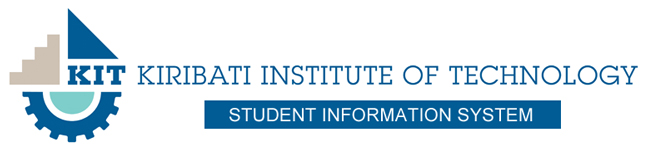
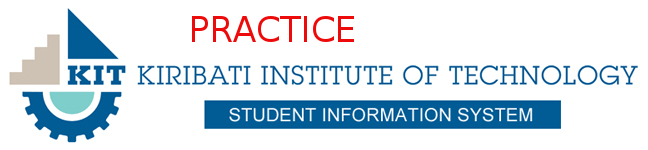
fixing the practice install

Changed region(s): [[0.2778, 0.1067, 0.5556, 0.2933], [0.5247, 0.16, 0.5556, 0.2133]]

diff --git a/tafe/templates/tafe/base_site.html b/tafe/templates/tafe/base_site.html
@@ -1,10 +1,10 @@
 {% extends "tafe/base.html" %}
 {% load admin_static %}{% load url from future %}
 
-{% block title %}{{ title }}KIT Student Management System{% endblock %}
+{% block title %}{{ title }}Practice KIT Student Management System{% endblock %}
 
 {% block branding %}{{ block.super }}
-<a href="/tafe/"><div id="site-name">KIT Student Management System</div>
+<a href="/tafe/"><div id="site-name">Practice KIT Student Management System</div>
     <img src="{{ STATIC_URL }}images/kit-header.jpg" /></a>
 {% endblock %}
 

diff --git a/tafe/templates/admin/base_site.html b/tafe/templates/admin/base_site.html
@@ -1,9 +1,9 @@
 {% extends "admin/base.html" %}
 
-{% block title %}{{ title }} | TVET{% endblock %}
+{% block title %}{{ title }} PRACTICE | KIT{% endblock %}
 
 {% block branding %}
-<a href="/tafe/"><h1 id="site-name">KIT Student Management System</h1></a>
+<a href="/tafe/"><h1 id="site-name">PRACTICE | KIT Student Management System | PRACTICE</h1></a>
 {% endblock %}
 
 {% block nav-global %}{% endblock %}
